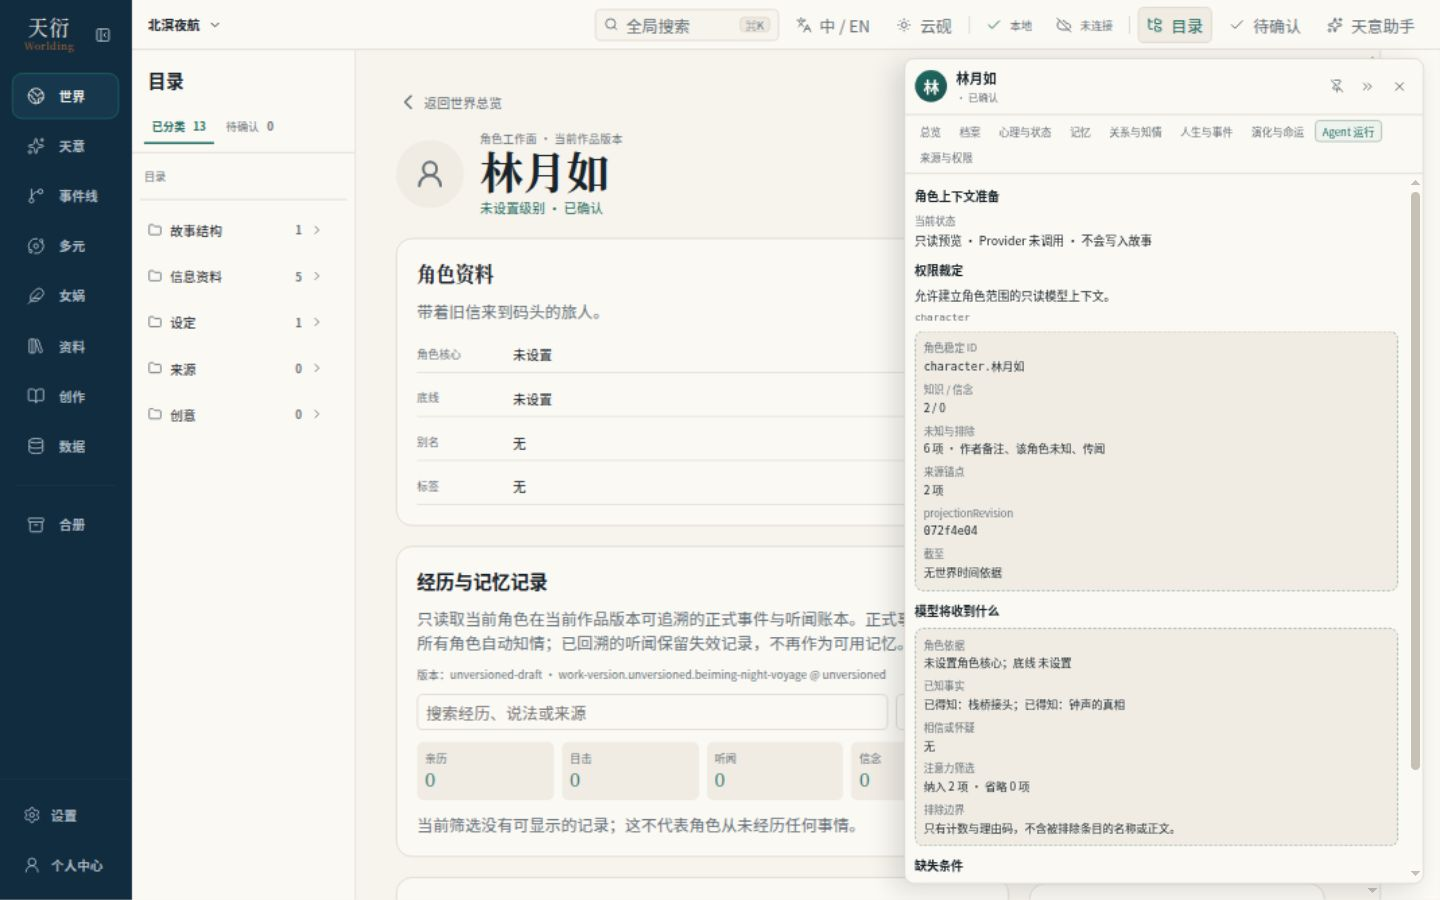
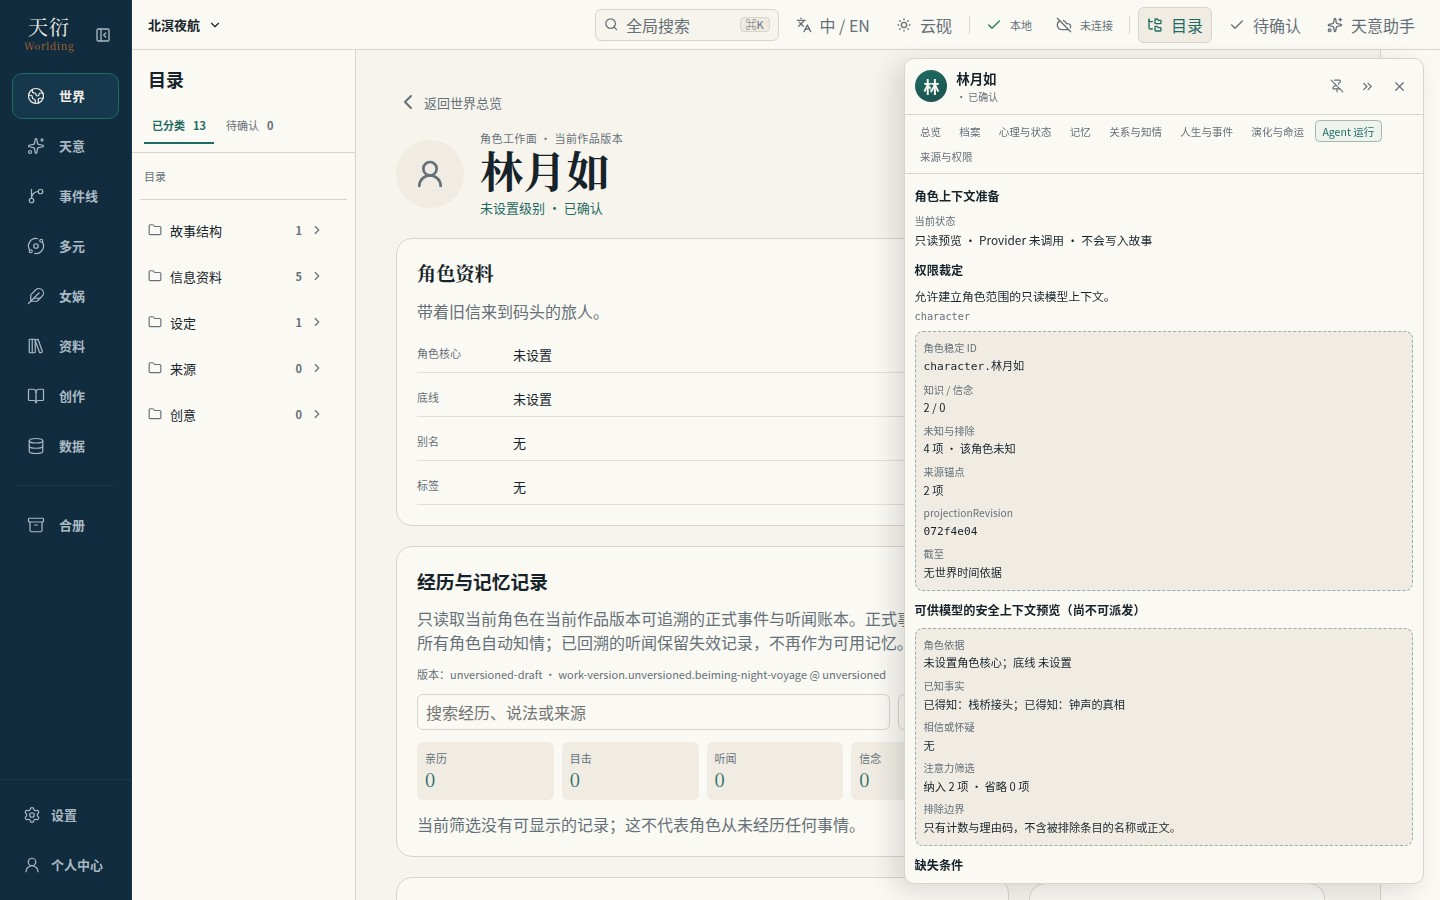
fix(character-agent): correct preview context semantics

diff --git a/tests/storyIntelligence/characterAgentContextGatewayR0.test.ts b/tests/storyIntelligence/characterAgentContextGatewayR0.test.ts
@@ -5,9 +5,11 @@ import test from "node:test";
 import { buildEventStoryCrossingKnowledgeProjection } from "../../src/storyContracts/eventStoryCrossingKnowledge.ts";
 import {
   prepareCharacterContextGateway,
+  projectCharacterContextExclusionCounts,
   projectNuwaN1ProviderSafeContext,
   serializeNuwaN1ProviderSafeContext
 } from "../../src/storyContracts/characterAgentContextGateway.ts";
+import { projectWorldReferences } from "../../src/storyContracts/worldReferenceProjection.ts";
 
 const guardRevision = "a".repeat(64);
 const twinRevision = "b".repeat(64);
@@ -101,6 +103,15 @@ test("missing scene and goal remain UI conditions instead of fabricated Provider
   assert.equal(result.context.scene.label, "未选择场景");
   assert.equal("scene" in (result.providerSafeContext ?? {}), false);
   assert.equal("localGoal" in (result.providerSafeContext ?? {}), false);
+  assert.equal("runId" in (result.providerSafeContext ?? {}), false);
+  assert.equal("step" in (result.providerSafeContext ?? {}), false);
+  assert.equal("remaining" in (result.providerSafeContext ?? {}), false);
+  assert.equal(result.providerSafeContext?.previewMode, true);
+  assert.equal(result.context.runId, "");
+  assert.equal(result.context.attemptId, "");
+  assert.equal(result.context.step, 0);
+  assert.equal(result.context.remaining.committedSteps, 0);
+  assert.equal(result.context.remaining.dispatches, 0);
   assert.deepEqual(result.missingConditions.slice(0, 3), ["scene", "goal", "world-time"]);
 });
 
@@ -121,12 +132,57 @@ test("unknown, author-note and rumor content never appears in serialized model c
 test("author preview and Provider adapter use the same safe projection and stable serialization", () => {
   const result = prepare();
   assert.ok(result.context);
-  assert.deepEqual(result.providerSafeContext, projectNuwaN1ProviderSafeContext(result.context));
-  assert.equal(result.authorPreviewCanonicalJson, serializeNuwaN1ProviderSafeContext(result.context));
+  assert.deepEqual(result.providerSafeContext, projectNuwaN1ProviderSafeContext(result.context, { mode: "preview" }));
+  assert.equal(result.authorPreviewCanonicalJson, serializeNuwaN1ProviderSafeContext(result.context, { mode: "preview" }));
+  assert.throws(() => projectNuwaN1ProviderSafeContext(result.context), /cannot be projected as a Nuwa Run payload/u);
 
   const adapter = readFileSync("apps/story-studio/server/nuwaN1PiAdapter.mjs", "utf8");
   assert.match(adapter, /projectNuwaN1ProviderSafeContext/);
   assert.doesNotMatch(adapter, /function safeContextForProvider/);
+});
+
+test("unrelated project author notes and rumors do not change the operation-scoped exclusion count or leak sentinels", () => {
+  const unrelatedAuthorId = "world.unrelated-author-note-stable-id";
+  const unrelatedRumorId = "world.unrelated-rumor-stable-id";
+  const unrelatedAuthorTitle = "UNRELATED_AUTHOR_NOTE_TITLE_SENTINEL";
+  const unrelatedRumorTitle = "UNRELATED_RUMOR_TITLE_SENTINEL";
+  const unrelatedAuthorBody = "UNRELATED_AUTHOR_NOTE_BODY_SENTINEL";
+  const unrelatedRumorBody = "UNRELATED_RUMOR_BODY_SENTINEL";
+  const unrelated = projectWorldReferences([
+    { id: unrelatedAuthorId, title: unrelatedAuthorTitle, type: "rule", status: "active", tags: ["作者备注", unrelatedAuthorBody] },
+    { id: unrelatedRumorId, title: unrelatedRumorTitle, type: "event", status: "active", tags: ["推测：与当前任务无关", unrelatedRumorBody] }
+  ]);
+  assert.deepEqual(unrelated.map((entry) => entry.nature).sort(), ["author-note", "rumor"]);
+
+  const before = prepare({ excludedReasonCounts: projectCharacterContextExclusionCounts(projection()) });
+  // The production exclusion projector deliberately accepts only the current
+  // role's Event projection, so adding unrelated project references is inert.
+  const after = prepare({ excludedReasonCounts: projectCharacterContextExclusionCounts(projection()) });
+  assert.equal(before.providerSafeContext?.excluded.count, 2);
+  assert.deepEqual(after.providerSafeContext?.excluded, before.providerSafeContext?.excluded);
+  assert.equal(after.providerSafeContextCanonicalJson, before.providerSafeContextCanonicalJson);
+  const serialized = after.providerSafeContextCanonicalJson ?? "";
+  for (const sentinel of ["event.secret", unrelatedAuthorId, unrelatedRumorId, unrelatedAuthorTitle, unrelatedRumorTitle, unrelatedAuthorBody, unrelatedRumorBody]) {
+    assert.equal(serialized.includes(sentinel), false);
+  }
+});
+
+test("safe preview is a detached stable snapshot and display-name changes preserve its digest", () => {
+  const result = prepare();
+  const canonical = result.providerSafeContextCanonicalJson;
+  const digest = result.previewDigest;
+  assert.ok(result.context);
+  result.context.knownFacts[0]!.summary = "MUTATED_AFTER_PROJECTION";
+  result.context.profileBasis.core = "MUTATED_PROFILE";
+  assert.equal(result.providerSafeContextCanonicalJson, canonical);
+  assert.equal(JSON.stringify(result.providerSafeContext).includes("MUTATED_AFTER_PROJECTION"), false);
+  assert.equal(JSON.stringify(result.providerSafeContext).includes("MUTATED_PROFILE"), false);
+
+  const renamed = prepare({
+    characters: characters.map((character) => ({ id: character.id, label: character.id === "character.guard" ? "稳定 ID 未变的新显示名" : character.label, type: "character" as const, formal: true, version: character.revisionToken }))
+  });
+  assert.equal(renamed.previewDigest, digest);
+  assert.deepEqual(renamed.providerSafeContext?.excluded.reasonCodes, ["author-note", "character-unknown", "rumor"]);
 });
 
 test("gateway remains a pure read projection and does not define another CharacterAgentContext", () => {

diff --git a/src/storyContracts/characterAgentContextGateway.ts b/src/storyContracts/characterAgentContextGateway.ts
@@ -12,6 +12,8 @@ export const CHARACTER_CONTEXT_GATEWAY_VERSION = "tianyan-character-context-gate
 
 export type CharacterContextExclusionReason = "author-note" | "rumor" | "character-unknown";
 
+export type NuwaN1ProviderProjectionMode = "run" | "preview";
+
 export type CharacterGatewayPreparation = {
   version: typeof CHARACTER_CONTEXT_GATEWAY_VERSION;
   handoff: CharacterKnowledgeHandoff;
@@ -112,17 +114,20 @@ export function prepareCharacterContextGateway(input: {
     sourceRevision: input.actor.revision,
     sources: profileSources
   };
+  // Attention needs a bounded sizing envelope, but a preview has no Run and
+  // therefore no committed-step or Provider-dispatch allowance of its own.
   const remaining: NuwaN1Context["remaining"] = {
-    committedSteps: 6,
-    dispatches: 12,
+    committedSteps: 0,
+    dispatches: 0,
     inputTokenBudget: 4096,
     outputTokenBudget: 1024
   };
   const fixedContext = {
     version: "tianyan-nuwa-n1-role-context/v1" as const,
-    runId: `character-context-preview.${input.actor.id}`,
-    attemptId: "read-only-preview",
-    step: 1,
+    previewMode: true as const,
+    runId: "",
+    attemptId: "",
+    step: 0,
     actor: { id: input.actor.id, revision: input.actor.revision },
     scene,
     localGoal,
@@ -171,7 +176,7 @@ export function prepareCharacterContextGateway(input: {
     })),
     attention
   };
-  const providerSafeContext = projectNuwaN1ProviderSafeContext(context);
+  const providerSafeContext = projectNuwaN1ProviderSafeContext(context, { mode: "preview" });
   const canonical = canonicalJson(providerSafeContext);
   return {
     version: CHARACTER_CONTEXT_GATEWAY_VERSION,
@@ -191,15 +196,25 @@ export function prepareCharacterContextGateway(input: {
   };
 }
 
-/** Single source for both the author preview and the Provider-bound tool result. */
-export function projectNuwaN1ProviderSafeContext(context: NuwaN1Context) {
+/**
+ * Single safe-field projector for author preview and Provider-bound tool
+ * results. Preview mode deliberately omits execution identity and Run budget;
+ * those fields exist only after the runtime has created a real Nuwa Run.
+ */
+export function projectNuwaN1ProviderSafeContext(
+  context: NuwaN1Context,
+  options: { mode?: NuwaN1ProviderProjectionMode } = {}
+) {
+  const mode = options.mode ?? "run";
+  if (mode === "run" && context.previewMode === true) {
+    throw new Error("A Character context preview cannot be projected as a Nuwa Run payload.");
+  }
   const reasonCodes = context.excludedKnowledgeReasonCodes?.length
     ? [...new Set(context.excludedKnowledgeReasonCodes)].sort()
     : context.excludedKnowledgeCount ? ["not-known-by-actor"] : [];
-  return {
+  const safeContext = {
     version: context.version,
-    runId: context.runId,
-    step: context.step,
+    ...(mode === "run" ? { runId: context.runId, step: context.step } : { previewMode: true as const }),
     actor: context.actor,
     ...(context.scene.sceneRef.id === MISSING_SCENE.sceneRef.id ? {} : { scene: context.scene }),
     ...(context.localGoal ? { localGoal: context.localGoal } : {}),
@@ -211,14 +226,34 @@ export function projectNuwaN1ProviderSafeContext(context: NuwaN1Context) {
     excluded: { count: context.excludedKnowledgeCount, reasonCodes },
     recentDialogue: context.recentDialogue,
     allowedActions: context.allowedActions,
-    remaining: context.remaining,
+    ...(mode === "run" ? { remaining: context.remaining } : {}),
     authorCue: context.authorCue,
     ...(context.stateProjection ? { stateProjection: context.stateProjection } : {})
   };
+  return structuredClone(safeContext);
 }
 
-export function serializeNuwaN1ProviderSafeContext(context: NuwaN1Context): string {
-  return canonicalJson(projectNuwaN1ProviderSafeContext(context));
+export function serializeNuwaN1ProviderSafeContext(
+  context: NuwaN1Context,
+  options: { mode?: NuwaN1ProviderProjectionMode } = {}
+): string {
+  return canonicalJson(projectNuwaN1ProviderSafeContext(context, options));
+}
+
+/**
+ * The current Dock candidate set is exactly the role-filtered Event knowledge
+ * projection. Project-global World references are not candidates and cannot
+ * affect this count. Future source selectors must add their own scoped counts
+ * only after they become part of the concrete operation candidate set.
+ */
+export function projectCharacterContextExclusionCounts(
+  projection: EventStoryCrossingKnowledgeProjection | null
+): Record<CharacterContextExclusionReason, number> {
+  return {
+    "author-note": 0,
+    rumor: 0,
+    "character-unknown": safeCount(projection?.hiddenEventIds.length ?? 0)
+  };
 }
 
 function blockedPreparation(

diff --git a/apps/story-studio/src/components/entity-dock/EntityInspectorDock.tsx b/apps/story-studio/src/components/entity-dock/EntityInspectorDock.tsx
@@ -14,7 +14,7 @@ import type { EventStoryCrossingKnowledgeProjection } from "../../../../../src/s
 import type { CharacterMemoryQueryProjection } from "../../../../../src/storyContinuity/characterMemoryQuery.ts";
 import { projectWorldReferences, WORLD_REFERENCE_CATEGORY_LABELS } from "../../../../../src/storyContracts/worldReferenceProjection.ts";
 import { buildCharacterContextPack, type CharacterContextPack } from "../../../../../src/storyContracts/characterContextPack.ts";
-import { prepareCharacterContextGateway, type CharacterGatewayPreparation } from "../../../../../src/storyContracts/characterAgentContextGateway.ts";
+import { prepareCharacterContextGateway, projectCharacterContextExclusionCounts, type CharacterGatewayPreparation } from "../../../../../src/storyContracts/characterAgentContextGateway.ts";
 import { attachTimeFrames, projectCausalEvolution, type CausalEvolutionCard } from "../../../../../src/storyContracts/worldCausalEvolution.ts";
 import { buildCharacterStateInspectorView, type CharacterStateInspectorView } from "./characterStateInspectorPresentation.ts";
 import type { TianyanShellRuntimeState } from "../../product-shell/runtime/TianyanShellRuntime";
@@ -129,17 +129,7 @@ function CharacterEntityDock(props: { runtime: TianyanShellRuntimeState; objectI
     if (!characters.some((character) => character.id === props.objectId)) {
       characters.push({ id: props.objectId, label: read.title, type: "character", formal: read.status === "active", version: read.revisionToken });
     }
-    // One hidden event contributes to one reason only. Titles and bodies are
-    // deliberately never copied into this count-only exclusion projection.
-    const excludedReasons = new Map<string, "author-note" | "rumor" | "character-unknown">();
-    for (const reference of references) {
-      if (reference.nature === "author-note" || reference.nature === "rumor") excludedReasons.set(reference.id, reference.nature);
-    }
-    for (const eventId of knowledge?.hiddenEventIds ?? []) {
-      if (!excludedReasons.has(eventId)) excludedReasons.set(eventId, "character-unknown");
-    }
-    const excludedReasonCounts = { "author-note": 0, rumor: 0, "character-unknown": 0 };
-    for (const reason of excludedReasons.values()) excludedReasonCounts[reason] += 1;
+    const excludedReasonCounts = projectCharacterContextExclusionCounts(knowledge);
     return prepareCharacterContextGateway({
       projectId,
       projection: knowledge,
@@ -157,7 +147,7 @@ function CharacterEntityDock(props: { runtime: TianyanShellRuntimeState; objectI
       excludedReasonCounts,
       providerConfigured: isActiveProviderConfigured(props.runtime.modelStatus)
     });
-  }, [read, projectId, worldObjects, props.objectId, references, knowledge, props.runtime.modelStatus]);
+  }, [read, projectId, worldObjects, props.objectId, knowledge, props.runtime.modelStatus]);
   const stateView = useMemo<CharacterStateInspectorView>(() => buildCharacterStateInspectorView({
     // 取不到知情投影时按最保守的读者范围处理，不把读取失败当成无知。
     observerKind: knowledge?.observer.kind ?? "character",
@@ -293,7 +283,7 @@ function AgentRunTab(props: { preparation: CharacterGatewayPreparation | null })
       <p><small>projectionRevision</small><code>{preparation.projectionRevision ?? "尚无派生状态"}</code></p>
       <p><small>截至</small>{preparation.asOfText}</p>
     </div>
-    <h4>模型将收到什么</h4>
+    <h4>可供模型的安全上下文预览（尚不可派发）</h4>
     {safe ? <div className="entity-dock-contextpack">
       <p><small>角色依据</small>{safe.profileBasis.core ?? "未设置角色核心"}；底线 {safe.profileBasis.boundaries ?? "未设置"}</p>
       <p><small>已知事实</small>{safe.knownFacts.map((fact) => fact.summary).join("；") || "无"}</p>
@@ -309,7 +299,7 @@ function AgentRunTab(props: { preparation: CharacterGatewayPreparation | null })
       <summary>技术详情</summary>
       <p><small>闸门合同</small><code>{preparation.version}</code></p>
       <p><small>规范化摘要</small><code>{preparation.previewDigest ?? "无"}</code></p>
-      <p><small>一致性</small>作者预览与 Provider 载荷引用同一份规范化 JSON。</p>
+      <p><small>一致性</small>作者预览与共享 Provider 安全字段投影引用同一份规范化 JSON；真实 Run 身份与预算仅在实际 Run 创建后加入。</p>
       <p><small>规范化字节数</small>{preparation.authorPreviewCanonicalJson ? new TextEncoder().encode(preparation.authorPreviewCanonicalJson).length : 0}</p>
     </details>
   </div>;

diff --git a/tests/storyStudio/characterAgentContextGatewayUiR0.test.ts b/tests/storyStudio/characterAgentContextGatewayUiR0.test.ts
@@ -20,7 +20,7 @@ test("Agent 运行 honestly renders permission, zero-call boundaries, summary, s
     "权限裁定",
     "角色稳定 ID",
     "projectionRevision",
-    "模型将收到什么",
+    "可供模型的安全上下文预览（尚不可派发）",
     "缺失条件",
     "技术详情"
   ]) assert.match(agentTab, new RegExp(text));
@@ -34,4 +34,6 @@ test("the gateway input binds the role by objectId and revision, never by charac
   assert.match(preparation, /revision: read\.revisionToken/);
   assert.match(preparation, /providerConfigured: isActiveProviderConfigured\(props\.runtime\.modelStatus\)/);
   assert.doesNotMatch(preparation, /characterTitle/);
+  assert.match(preparation, /projectCharacterContextExclusionCounts\(knowledge\)/);
+  assert.doesNotMatch(preparation, /for \(const reference of references\)/);
 });

diff --git a/src/storyIntelligence/nuwaN1Runtime.ts b/src/storyIntelligence/nuwaN1Runtime.ts
@@ -57,6 +57,8 @@ export type NuwaN1Scope = {
 };
 export type NuwaN1Context = {
   version: "tianyan-nuwa-n1-role-context/v1";
+  /** Present only on a non-dispatchable author preview. Real Run contexts omit it. */
+  previewMode?: true;
   runId: string;
   attemptId: string;
   step: number;

diff --git a/data/2026-09-19_天衍角色Agent上下文闸门R0/验证报告.md b/data/2026-09-19_天衍角色Agent上下文闸门R0/验证报告.md
@@ -2,20 +2,23 @@
 
 ## 结论
 
+- 独立审查结论为 `NEED_FIX`：原 HEAD `3a2c5502252d77cf40a2e977819736263b81ee2a` 把全项目作者备注/传闻混入当前角色操作的排除计数，并把 6/12 的真实 Run 剩余预算语义写入无 Run 的预览。两项均已在本 PR 范围内修复。
 - `CharacterKnowledgeHandoff.contextAccess === "character"` 是构造 `NuwaN1Context` 的前置条件；`display-only` 与 `author` 都在模型上下文构造前 fail closed。
 - 角色按稳定 `objectId / observerId + revision` 绑定；显示名不参与身份匹配。
-- 作者预览与 Nuwa N1 Pi Provider 工具边界复用 `projectNuwaN1ProviderSafeContext`，并通过同一稳定序列化生成逐字节相同的规范化 JSON。
+- 作者预览与 Nuwa N1 Pi Provider 工具边界复用 `projectNuwaN1ProviderSafeContext` 的安全字段投影，并通过同一稳定序列化生成逐字节相同的预览 JSON；预览对象为断开引用的快照，调用后修改内部 Context 不会污染预览。
+- 预览显式标记 `previewMode`，不再向安全预览投影 `runId`、`step` 或 `remaining`。真实 Nuwa Run 的 Provider 投影仍保留这些执行字段，且误把预览投影为 Run payload 会 fail closed。
+- `excluded.count` 的当前合同是“本次角色 Event 候选投影中对该角色不可见的来源数”。全项目 World Reference 中尚未进入本次候选集的作者备注/传闻不参与计数；当前林月如为 4，而不是原实现的 6。
 - 预览始终为 `providerCalls=0`、`writes=0`；没有运行按钮，没有 Event、Canon、数据库、RAG 或新 Agent 框架写入。
 - 被排除的作者备注、传闻、角色未知内容只保留计数与稳定原因码；标题、正文和对象名不进入模型安全序列化。
 
 ## UI 验收
 
 - 1440×900：林月如上下文显示 2 条已知、0 条信念；沈砚显示 0 条已知、1 条怀疑，怀疑未升级为 knowledge。
-- 技术详情只显示闸门合同、digest、同源说明和规范化字节数，不倾倒 JSON。
+- 标题明确为“可供模型的安全上下文预览（尚不可派发）”；技术详情只显示闸门合同、digest、同源说明和规范化字节数，不倾倒 JSON。
 - 隔离的空 Provider 配置根下，缺失条件明确显示“未配置 Provider”，同时仍显示“Provider 未调用”。
 - 1195×720：抽屉覆盖布局可用，文档、Dock 和 Agent 内容横向溢出均为 0。
 - 关闭抽屉后，焦点回到 `data-testid="character-open-state-inspector"` 的“查看角色状态”按钮。
-- 最终技术摘要为 `fnv1a32:dd11a4d4` / 1901 字节，已在最后一次安全投影收紧后重新截图。
+- 最终技术摘要为 `fnv1a32:b05f422d` / 1735 字节，已在排除计数与预览执行字段修复后重新截图。
 
 ## 安全观察
 
@@ -24,7 +27,8 @@
 - story writes：0
 - Agent 页签操作按钮：0
 - excluded secret sentinel DOM 命中：0
-- 实测网络共 5 个请求，全部为 GET：角色对象、世界目录、知情投影、正式关系、角色记忆查询。
+- 重拍会话多次重开角色页面，共观察到 141 个静态资源或 API 请求，全部为 GET；业务读取种类仍为角色对象、世界目录、知情投影、正式关系、角色记忆查询。
+- 无关 author-note / rumor 负例证明 `excluded.count` 不变；两条 stable ID、标题和正文共 6 个哨兵在 Provider-safe JSON 中命中 0，页面 DOM 命中 0。
 
 ## 证据
 
@@ -41,5 +45,5 @@
 
 ## 测试边界
 
-- 定向 37/37、unit 1345/1345、integration 60/60、typecheck、lint、build 与适用 full-shell E2E 均通过。
+- 定向 46/46、unit 1347/1347、integration 60/60、typecheck、lint、build 与适用 full-shell E2E 均通过。
 - 全 scope E2E 在与本任务无关的既有 `nuwa-n1` 参与者选择器等待上两次超时；本分支没有修改该 E2E 或 Nuwa 工作面来掩盖失败。

diff --git a/data/2026-09-19_天衍角色Agent上下文闸门R0/测试日志/测试汇总.md b/data/2026-09-19_天衍角色Agent上下文闸门R0/测试日志/测试汇总.md
@@ -1,13 +1,13 @@
 # 测试汇总
 
-运行时：Node 22.23.2 / npm 10.9.8。
+独立审查修复后的运行时：Node 22.22.0 / npm 10.9.4。
 
 | 检查 | 结果 |
 | --- | --- |
-| 定向闸门、UI、Nuwa Runtime/Pi、架构回归 | PASS；最终定向组 37/37 |
+| 定向闸门、UI、Nuwa attention/runtime/Pi、架构回归 | PASS；最终定向组 46/46 |
 | `npm run typecheck` | PASS |
 | `npm run lint` | PASS；FEATURE_INDEX 与唯一 Owner 不变量通过 |
-| `npm run test:unit` | PASS；1345/1345，243 个测试文件 |
+| `npm run test:unit` | PASS；1347/1347，243 个测试文件 |
 | `npm run test:integration` | PASS；60/60，12 个测试文件 |
 | `npm run build` | PASS；Vite 2091 modules transformed |
 | 适用 E2E：`TIANYAN_E2E_SCOPE=full-shell npm run test:e2e` | PASS；`tianyan R0 shell smoke PASS` |
@@ -15,3 +15,5 @@
 | `git diff --check` | PASS |
 
 说明：测试仅使用 Mock、本地假服务或回环测试主机；未调用真实 Provider。本任务要求的 full-shell/适用 E2E 已通过；不将全 scope 中既有 Nuwa 测试与当前 UI 的不匹配误报为本功能通过。
+
+新增负例把与当前角色、场景和任务无关的一条 author-note 与一条 rumor 加入项目级 World Reference 投影，证明角色安全预览的 `excluded.count` 与规范化 JSON 均不变化；两条 stable ID、标题和正文共 6 个哨兵均未进入 Provider-safe payload。另验证预览 payload 不含 `runId / step / remaining`，且共享 projector 的真实 Run 默认模式继续通过既有 Pi 测试。

diff --git a/data/2026-09-19_天衍角色Agent上下文闸门R0/工作日志.md b/data/2026-09-19_天衍角色Agent上下文闸门R0/工作日志.md
@@ -18,6 +18,10 @@
 7. 更新 FEATURE_INDEX；职责仍在既有 Owner 上，未新增事实 Owner，因此未改目录导航。
 8. 运行类型、lint、unit、integration、build、full-shell/E2E 和定向回归。全 scope E2E 额外尝试中，前三个 scope 通过，既有 `nuwa-n1` scope 在当前 UI 已要求显式打开范围设置的情况下，仍直接等待 `.nuwa-n1-participant-options` 而两次超时；本分支未扩大修改该既有流程。
 9. 用当前北溟夜航只读角色数据做 1440×900、1195×720 UI 验收；无 Provider 场景只替换隔离的 Provider 配置根，不修改故事数据。
+10. 独立审查发现原实现把全项目 World Reference 的作者备注/传闻计入单角色操作排除数；用只接受当前角色 Event 投影的纯函数收紧为本次实际候选集口径，并加入无关 author-note / rumor 动态负例。
+11. 独立审查确认 `remaining.committedSteps / dispatches` 是真实 Nuwa Run 的剩余值。预览改为零执行额度并显式 `previewMode`；安全预览省略 `runId / step / remaining`，真实 Run Provider 投影保持原合同。
+12. 共享 projector 返回断开引用的快照，并加入调用后可变对象污染、显示名改动 digest、同名 stable ID 隔离和秘密 stable ID/标题/正文不泄漏断言。
+13. 重跑 Node 22.22.0 / npm 10.9.4 全门禁并重拍 8 张截图；没有修改 Nuwa 工作面或既有 `nuwa-n1` E2E 来掩盖基线超时。
 
 ## 既有断言调整
 
